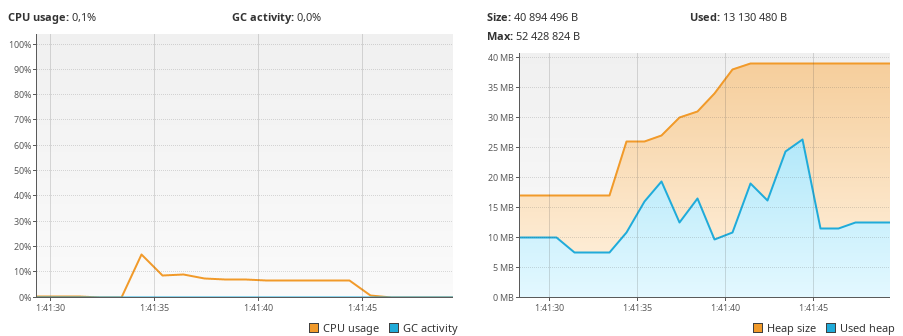
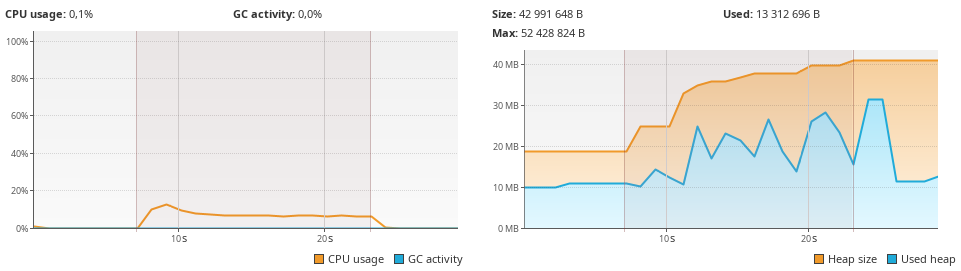
Updated: 3 files changed, 14 insertions(+), 7 deletions(-)
M  dolgozat-2024/src/image/load-test.png
M  dolgozat-2024/src/index.tex
M  load-test/holodb-load-client/src/main/java/hu/webarticum/miniconnect/test/holodbloadclient/LoadMain.java

diff --git a/load-test/holodb-load-client/src/main/java/hu/webarticum/miniconnect/test/holodbloadclient/LoadMain.java b/load-test/holodb-load-client/src/main/java/hu/webarticum/miniconnect/test/holodbloadclient/LoadMain.java
@@ -1,5 +1,7 @@
 package hu.webarticum.miniconnect.test.holodbloadclient;
 
+import java.time.LocalDateTime;
+import java.time.format.DateTimeFormatter;
 import java.util.function.Supplier;
 
 import hu.webarticum.miniconnect.api.MiniSession;
@@ -21,22 +23,25 @@ public class LoadMain {
             "WHERE c.id = ?";
 
     private static final String SQL_PATTERN_3 = "SELECT * FROM employees ORDER BY lastname ASC, firstname DESC LIMIT 20";
+
+    private static final DateTimeFormatter formatter = DateTimeFormatter.ofPattern("yyyy-MM-dd HH:mm:ss.SSS");
     
     private static volatile boolean stopped = false;
     
     public static void main(String[] args) throws InterruptedException {
+        System.out.println("Start: " + LocalDateTime.now().format(formatter));
         Supplier<String> sqlSupplier1 = () -> SQL_PATTERN_1.replace("?", "" + ((int) (Math.random() * 100)));
-        for (int i = 0; i < 3; i++) {
+        for (int i = 0; i < 15; i++) {
             startNewClientThread(sqlSupplier1);
         }
         
         Supplier<String> sqlSupplier2 = () -> SQL_PATTERN_2.replace("?", "" + ((int) (Math.random() * 100)));
-        for (int i = 0; i < 3; i++) {
+        for (int i = 0; i < 15; i++) {
             startNewClientThread(sqlSupplier2);
         }
         
         Supplier<String> sqlSupplier3 = () -> SQL_PATTERN_3;
-        for (int i = 0; i < 3; i++) {
+        for (int i = 0; i < 15; i++) {
             startNewClientThread(sqlSupplier3);
         }
         
@@ -50,7 +55,7 @@ public class LoadMain {
     
     private static void runClient(Supplier<String> sqlSupplier) {
         long threadId = Thread.currentThread().getId();
-        System.out.println("Thread started: " + threadId);
+        System.out.println("Thread (" + threadId + ") started at " + LocalDateTime.now().format(formatter));
         try (ClientMessenger clientMessenger = new ClientMessenger(HOST, PORT)) {
             MiniSessionManager sessionManager = new MessengerSessionManager(clientMessenger);
             try (MiniSession session = sessionManager.openSession()) {
@@ -67,7 +72,7 @@ public class LoadMain {
                 }
             }
         }
-        System.out.println("Thread finished: " + threadId);
+        System.out.println("Thread (" + threadId + ") finished at " + LocalDateTime.now().format(formatter));
     }
 
 }

diff --git a/dolgozat-2024/src/index.tex b/dolgozat-2024/src/index.tex
@@ -2565,7 +2565,6 @@ Az összehasonlítást beágyazott H2-vel és (nem dockeres) MariaDB szerverrel 
 ezekhez az \textbftt{EXT} eset adatbázistartalmát materializáltam le.
 A \ref{table:queryComparison} táblázat mutatja a futási időket mikromásodpercben.
 
-
 \begin{table}[H]
 \captionsetup{justification=justified, singlelinecheck=false, margin=0.7cm}
 \begin{center}
@@ -2793,7 +2792,10 @@ Nagyméretű adathalmaz (11~002~000 rekord) generálása különböző megoldás
 \begin{figure}[H]
 \centering
 \includegraphics[height=0.4\textwidth]{image/load-test}
-\caption{Terheléses teszt eredménye.}
+\caption[Terheléses teszt eredménye]{
+Terheléses teszt eredménye.
+Az árnyékolt terület mutatja a kliens futási ablakát.
+}
 \end{figure}
 
 
